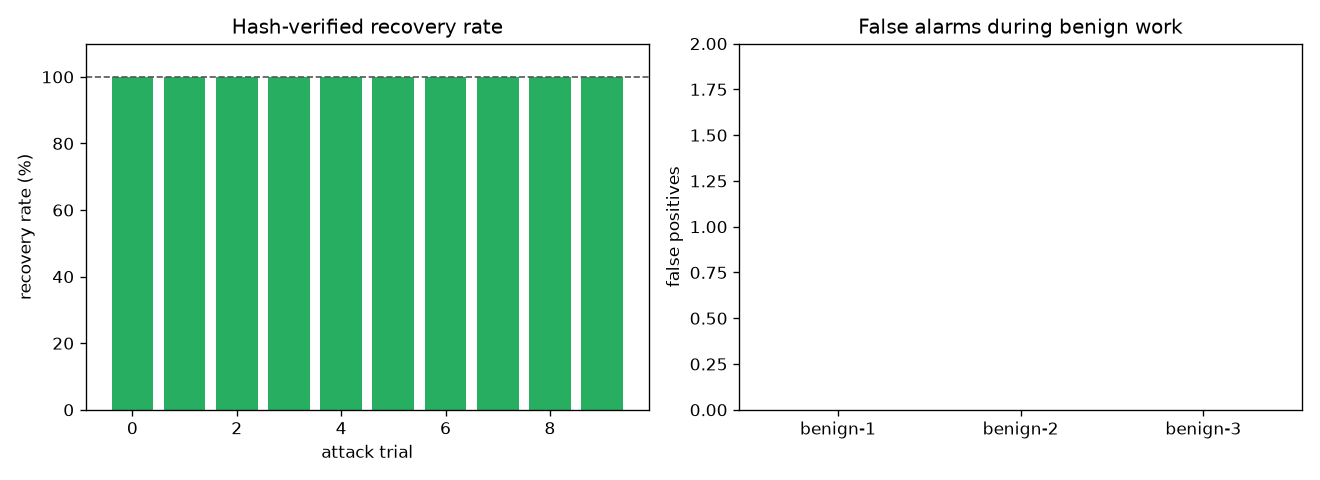
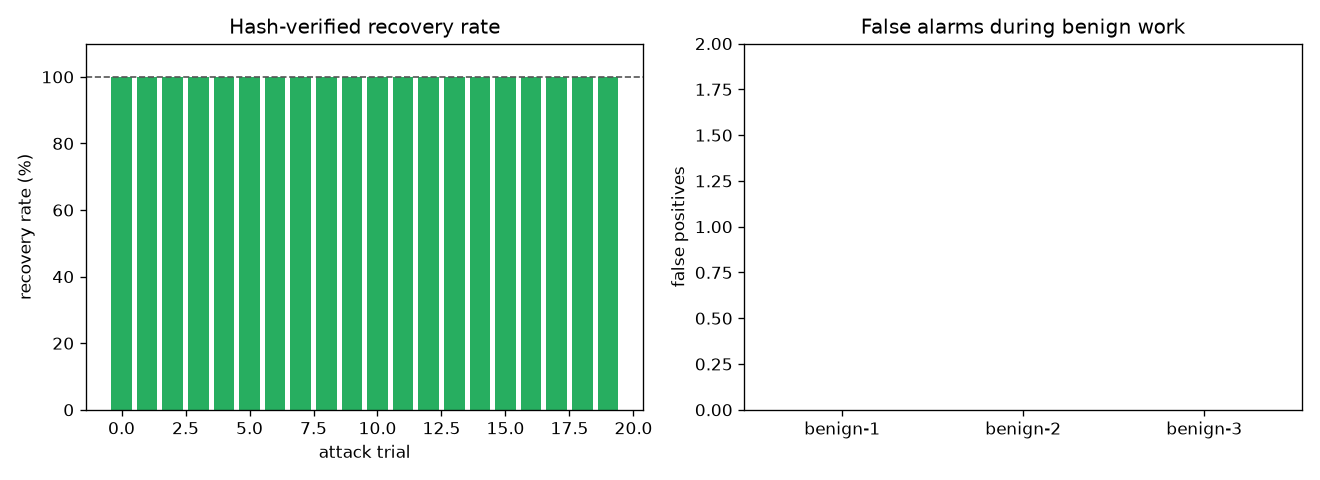
Steps 5-6: 20 live trials per corpus, both matrices, README synced
- run_experiment: the full grid is now 10 speeds x 2 orders = 20 attack trials per corpus
  (plus 3 benign), run one corpus at a time so nothing competes for the sandbox.
- synthetic: 16/20 killed, 20/20 folder-clean, 2.04 s mean detection, 8.7/16 encrypted,
  0 false positives. NapierOne: 20/20 attributed AND killed, 20/20 clean, 2.36 s,
  10.9/204 encrypted (5%), 0 false positives.
- attack matrix re-run on both: 12/12 folder-clean and 12/12 correct-kill on each; the
  earlier NapierOne 'slow' no_kill is gone now the window scales with the corpus.
- README synced throughout: trial numbers, 17-type/1553-file sample, 10871-sample dataset,
  the classifier table with Wilson CIs, per-benign-group FPR, three-seed agreement,
  header-kept 1.000 for 14/17 types, fetch command, architecture box, 119 tests.

diff --git a/README.md b/README.md
@@ -57,8 +57,9 @@ cryptographically protected backup.
 | 7 | Streamlit dashboard | done |
 | 8 | threat model, NapierOne real dataset, file-level classifier evaluation | done |
 | 9 | header-kept attack + structural-validity gate, dual-corpus evaluation | done |
+| 10 | full 17-type NapierOne sample, RAR/7Z checks, 10871-sample evaluation | done |
 
-All 114 unit tests pass. Developed and demoed on Windows 11 (Python 3.15); the code is pure
+All 119 unit tests pass. Developed and demoed on Windows 11 (Python 3.15); the code is pure
 Python and also runs on Ubuntu. The one platform-specific area is process attribution -
 see **Known limitations** for the measured Windows behaviour and how it is handled.
 
@@ -175,7 +176,7 @@ the PNG charts. The raw JSON is git-ignored; regenerate it with the commands abo
 ### Dataset (real NapierOne files)
 
 ```bash
-python tools/fetch_napierone.py --count 40 --max-archive-mb 170   # -> datasets/napierone_sample/
+python tools/fetch_napierone.py --count 100 --max-archive-mb 650  # -> datasets/napierone_sample/
 python evaluation/build_dataset.py                                # -> datasets/labeled/ + labels.csv
 python evaluation/dataset_eval.py                                 # -> dataset_results.md + charts
 ```
@@ -183,26 +184,26 @@ python evaluation/dataset_eval.py                                 # -> dataset_r
 ### Tests
 
 ```bash
-python -m pytest tests -q        # 114 tests
+python -m pytest tests -q        # 119 tests
 ```
 
 ## Results: synthetic vs real NapierOne corpus
 
-Both corpora, 10 attack + 3 benign trials each, plus a 12-cell attack matrix each
+Both corpora, 20 attack + 3 benign trials each, plus a 12-cell attack matrix each
 (`evaluation/results/results.md`):
 
 | corpus | files | attacker killed | folder clean | detection | files encrypted | false positives | matrix clean | new catches vs old |
 |--------|-------|-----------------|--------------|-----------|-----------------|-----------------|--------------|--------------------|
-| synthetic | 16 | 8/10 | **10/10** | 1.59 s | 9.5 (59 %) | **0** | 12/12 | 2 |
-| **NapierOne (real)** | 204 | **10/10** | **10/10** | 2.28 s | 13.9 (**7 %**) | **0** | 12/12 | 0 |
+| synthetic | 16 | 16/20 | **20/20** | 2.04 s | 8.7 (54 %) | **0** | 12/12 | 2 |
+| **NapierOne (real)** | 204 | **20/20** | **20/20** | 2.36 s | 10.9 (**5 %**) | **0** | 12/12 | 0 |
 
 Reading it:
 
 - **On real files the detector does better, not worse.** With a realistic 204-file corpus
-  every attacker was attributed and killed (10/10) and only ~7 % of files were touched,
-  versus 59 % on the tiny 16-file synthetic set - a small corpus is simply consumed before
+  every attacker was attributed and killed (20/20) and only ~5 % of files were touched,
+  versus 54 % on the tiny 16-file synthetic set - a small corpus is simply consumed before
   attribution can finish, which is an artefact of the test size, not of the detector.
-- **Folder fully clean 10/10 on both**, verified by re-hashing every file against a snapshot
+- **Folder fully clean 20/20 on both**, verified by re-hashing every file against a snapshot
   taken *before* the attack (not by trusting what recovery reported). The monitor re-arms
   after each response and does a final sweep, so even a mis-attributed first wave ends clean.
 - **Zero false positives on both** during benign work (editing documents, copying photos,
@@ -242,11 +243,12 @@ detector**. That is why the score combines several signals.
               +--------------------+--------------------+
               |                    |                    |
          entropy.py            canary.py           baseline.py
-   entropy + chi-square,   canary files touched?  startup entropy +
-   magic bytes, multi-offset                      SHA-256 of every file
-   windows, base64/encoded
-   detection, STRUCTURAL
-   validity (zip/png/gz/pdf/jpg)
+   entropy + chi-square,   canary files touched?  startup entropy,
+   magic bytes, multi-offset                      SHA-256 and STRUCTURAL
+   windows, base64/encoded                        validity of every file
+   detection, STRUCTURAL                          (so we can tell a file that
+   validity (zip/png/gz/pdf/                       BECAME broken from one that
+   jpg/mp4/mkv/mp3/rar/7z)                         was already broken)
               |                    |                    |
               +--------------------+--------------------+
                                    v
@@ -322,9 +324,9 @@ reproduces the "old" detector for the before/after comparison):
   optimising it to compute each window's entropy once). Because analysis runs synchronously
   on every watchdog event, this extra per-event latency lets a fast attacker encrypt a
   few more files before the score crosses the threshold - it is one of the reasons the
-  slowest attacks are killed while the fastest finish first (currently 6/10 killed, mean
-  12.2/16 files encrypted; see `evaluation/results/results.md`).
-  No files are lost (recovery still restores 10/10 to a clean folder); it is a
+  slowest attacks are killed while the fastest finish first (currently 16/20 killed, mean
+  8.7/16 files encrypted; see `evaluation/results/results.md`).
+  No files are lost (recovery still restores 20/20 to a clean folder); it is a
   detection-latency cost of looking harder, and the sampling (windows, not whole files)
   keeps it bounded.
 - **Encoded-content detection.** A charset + entropy heuristic (`entropy.is_encoded`) flags
@@ -375,12 +377,13 @@ mode is caught by both detectors - a whole-attack view saturates, because one lo
 text file anywhere in the folder is enough to raise the alarm. **The place header-kept
 actually differentiates is the per-file evaluation**, where each file is judged alone: see
 the Dataset section, where header-kept recall on MP3/MP4 goes 0.000 -> 1.000, MKV
-0.000 -> 0.966, and DOCX/XLSX 0.417/0.185 -> 1.000.
+0.000 -> 0.985, DOCX/XLSX 0.417/0.185 -> 1.000, and the archive types (ZIP/RAR/7ZIP/GZIP)
+reach 1.000 once RAR and 7Z get structural checks of their own.
 
-One honest residual: on the NapierOne corpus the `slow` cell with canaries on ends
-`no_kill` - at 1.5 s/file the attacker's write volume stays under the attribution rate, so
-no PID is pinned. Recovery still restored all 64 affected files and the folder ended
-byte-for-byte clean; the kill simply had no confident target.
+Every cell on both corpora now also ends with the **correct process killed** (12/12).
+An earlier run showed the NapierOne `slow` cells as `no_kill`, but that was the harness:
+its window was a flat 40 s, shorter than a 1.5 s/file attack on a 60-file corpus, so the
+attack was still running when the trial was cut off. The window now scales with the corpus.
 
 > **Honest caveat.** This before/after gap is measured on a **text-only** corpus on
 > purpose. Every encrypted file begins with the simulator's container header (`RGSIM1`),
@@ -438,48 +441,67 @@ NapierOne authors; please cite them if you use it.
 
 **What we sample.** NapierOne stores one large ZIP *bundle* per file type rather than loose
 files, so the tool downloads the smallest bundle under a size cap and extracts a seeded
-random sample from it (skipping anything over 5 MB). With a 170 MB cap that gives **480
-files across 12 types** - JPG, PNG, MP3, MP4, MKV, PDF, DOCX, XLSX, TXT, CSV, JSON, HTML.
-The remaining types (ZIP, RAR, 7ZIP, GZIP, PPTX) have 303-625 MB bundles and are skipped by
-default; raise `--max-archive-mb` to include them.
+random sample from it (skipping anything over 5 MB). With a 650 MB cap that covers **all 17
+types**: **1553 files** - JPG, PNG, MP3, MP4, MKV, PDF, DOCX, XLSX, PPTX, TXT, CSV, JSON,
+HTML and, importantly, the already-compressed ZIP, RAR, 7ZIP and GZIP (their bundles are
+303-625 MB, which is why a smaller cap skips them). Each bundle is deleted straight after
+extraction, so the peak disk cost is one bundle plus the 1.2 GB sample.
 
 ```bash
 pip install -r requirements.txt                      # boto3 for the unsigned S3 access
-python tools/fetch_napierone.py --count 40 --max-archive-mb 170   # -> datasets/napierone_sample/
+python tools/fetch_napierone.py --count 100 --max-archive-mb 650  # -> datasets/napierone_sample/
 python evaluation/build_dataset.py                   # -> datasets/labeled/ + labels.csv
 python evaluation/dataset_eval.py                    # -> dataset_results.md + charts
 ```
 
 `build_dataset.py` turns each source file into 7 labelled variants - benign (original, ZIP,
 GZIP) and ransomware (full, intermittent, base64, header-kept) - split 30/70 tuning/test
-**by source file**, so no file's variants straddle the split. That is 3360 labelled samples
-from 480 originals.
+**by source file**, so no file's variants straddle the split. That is **10871 labelled
+samples from 1553 originals** (6212 ransomware / 4659 benign), about 8.4 GB on disk.
+
+Because the archive types are now included, the benign side contains **283 real
+ZIP/RAR/7Z/GZIP archives** as hard negatives, not only the 3106 zip/gzip archives we build
+ourselves. Those two groups are scored separately, since a real archive is the harder
+negative.
 
 ### File-level results (`evaluation/results/dataset_results.md`)
 
 Each sample is scored **on its own**, with the threshold tuned on the tuning split only and
 the test split never touched during tuning:
 
-| detector | precision | recall | F1 | FPR | AUC |
-|----------|-----------|--------|----|-----|-----|
-| **new** (structural gate + multi-offset + encoded + structure_broken) | **0.998** | **0.980** | **0.989** | 0.003 | **0.989** |
-| old (first-window entropy + magic only) | 0.997 | 0.893 | 0.942 | 0.003 | - |
-| entropy alone | 0.600 | 0.998 | 0.749 | 0.888 | 0.564 |
+| detector | precision | recall (95% CI) | F1 | FPR (95% CI) | AUC |
+|----------|-----------|-----------------|----|--------------|-----|
+| **new** (structural gate + multi-offset + encoded + structure_broken) | **1.000** | **0.976** [0.971, 0.980] | **0.988** | **0.0000** [0.0000, 0.0012] | **0.988** |
+| old (first-window entropy + magic only) | 1.000 | 0.911 [0.902, 0.919] | 0.953 | 0.0000 | - |
+| entropy alone | 0.594 | 1.000 | 0.745 | **0.912** | 0.543 |
 
-The entropy-alone row is the point of the whole project: it catches nearly everything and
-is useless anyway, flagging 89 % of benign files. Results are on the **fresh** split (seed
-2025). Because the media structural checks were designed after looking at that split, a
-**second independent split (seed 3031)** is also reported and agrees - precision 0.997,
-recall 0.972, F1 0.984, AUC 0.985 - so the gain is not tuned to one split.
+False positives split by where the benign file came from - **zero in every group**:
 
-Header-kept recall is **1.000 for 10 of the 12 file types**. The three the media checks
-were written for went from undetectable to near-perfect (MP3 and MP4 0.000 -> 1.000, MKV
-0.000 -> 0.966), and scoring the structural finding directly lifted the compressed
-container types (DOCX 0.417 -> 1.000, XLSX 0.185 -> 1.000). The two that fall short are
-explainable: the remaining MKV misses are large files where the kept 10 % already satisfies
-the child-element walk, and TXT stays at 0.778 because plain text has no structure to
-check, so header-kept text is caught only when the encrypted remainder moves its entropy
-far enough.
+| benign group | n | false positives | FPR | 95% CI |
+|---|---|---|---|---|
+| real archive (NapierOne ZIP/RAR/7Z/GZIP) | 199 | **0** | 0.0000 | [0.0000, 0.0189] |
+| our generated zip/gzip | 2134 | **0** | 0.0000 | [0.0000, 0.0018] |
+| other real originals | 868 | **0** | 0.0000 | [0.0000, 0.0044] |
+
+All three seeds agree, so the result is not an artefact of one split:
+
+| seed | role | precision | recall | FPR | F1 | AUC |
+|---|---|---|---|---|---|---|
+| 2025 | fresh headline | 1.000 | 0.976 | 0.0000 | 0.988 | 0.988 |
+| 3031 | validation | 1.000 | 0.978 | 0.0000 | 0.989 | 0.989 |
+| 1234 | original | 1.000 | 0.974 | 0.0000 | 0.987 | 0.987 |
+
+The entropy-alone row is the point of the whole project: it catches everything and is
+useless anyway, flagging **91 %** of benign files. The media checks, and later the RAR/7Z
+ones, were each designed after inspecting a split - which is exactly why seeds 3031 and
+1234 are reported alongside the headline seed 2025.
+
+Header-kept recall is **1.000 for 14 of the 17 file types**, including every archive type
+(ZIP, RAR, 7ZIP, GZIP, PPTX) now that RAR and 7Z have structural checks. The three left
+are explainable rather than mysterious: **MKV 0.985** (a few large files where the kept
+10 % already satisfies the child-element walk), **TXT 0.912** and **CSV 0.688** - plain
+text and CSV have no structure to verify, so header-kept text is caught only when the
+encrypted remainder moves its entropy far enough, and a short CSV often does not.
 
 **Future work: MLRan.** A natural next step is a comparison against a machine-learning
 baseline trained on behavioural traces - e.g. the **MLRan** dataset of ransomware API-call
@@ -533,7 +555,9 @@ work.
   shorten the gap, the process sampler now wakes immediately on each sandbox write (a
   "kick") and samples faster (0.1 s) while the sandbox is hot. Measured effect over the 10
   trials: detection latency and mid-speed files-encrypted dropped slightly, but the **kill
-  rate did not reliably improve (≈7–8/10, run-to-run noise)**. The honest reason, confirmed
+  rate did not reliably improve on the tiny synthetic corpus (16/20, run-to-run noise)**.
+  On the realistic 204-file corpus the kill rate is **20/20**, because a larger folder
+  gives attribution the time it needs. The honest reason, confirmed
   by a micro-benchmark: per-process `io_counters` on Windows updates too coarsely (~1 s) to
   attribute a sub-second attack, and a 0.05 s/file attack (~0.8 s total) simply *exits*
   before any user-space suspend can land. Faster sampling cannot beat that, because the
@@ -559,7 +583,7 @@ tools/          test-corpus generator, benign workload generator,
 evaluation/     live trial runner, attack matrix, labelled-dataset builder,
                 file-level classifier evaluation, report tables and charts
 dashboard/      Streamlit live view
-tests/          pytest unit tests (114)
+tests/          pytest unit tests (119)
 datasets/       generated locally: napierone_sample/, labeled/ (git-ignored, not
                 redistributed - rebuild with the Dataset commands above)
 sandbox/        generated at runtime: protected/, .backup/, events.jsonl (git-ignored)

diff --git a/evaluation/results/results.md b/evaluation/results/results.md
@@ -2,8 +2,8 @@
 
 | corpus | files | attacker killed | folder clean | detection | files encrypted | false positives | matrix clean | new catches vs old |
 |---|---|---|---|---|---|---|---|---|
-| synthetic | 16 | 8/10 | 10/10 | 1.59 s | 9.5 (59%) | 0 | 12/12 | 2 |
-| NapierOne (real) | 204 | 10/10 | 10/10 | 2.28 s | 13.9 (7%) | 0 | 12/12 | 0 |
+| synthetic | 16 | 16/20 | 20/20 | 2.04 s | 8.7 (54%) | 0 | 12/12 | 2 |
+| NapierOne (real) | 204 | 20/20 | 20/20 | 2.36 s | 10.9 (5%) | 0 | 12/12 | 0 |
 
 *'new catches vs old' counts attack-matrix cells the upgraded detector catches that the original would have missed. It is 0 on NapierOne because real files carry magic bytes the old detector already used; the gap only shows on the text-only corpus, which is the hard case.*
 
@@ -15,24 +15,34 @@
 | # | order | delay | files | detection (s) | attributed | killed | encrypted | final recovered | folder clean |
 |---|-------|-------|-------|---------------|------------|--------|-----------|-----------------|--------------|
 | 1 | alphabetical | 0.05s | 16 | - | no | no | 16 | 16/16 | yes |
-| 2 | alphabetical | 0.1s | 16 | 1.779 | yes | yes | 16 | 16/16 | yes |
-| 3 | alphabetical | 0.2s | 16 | 1.25 | yes | yes | 5 | 16/16 | yes |
-| 4 | alphabetical | 0.3s | 16 | 1.159 | yes | yes | 4 | 16/16 | yes |
-| 5 | alphabetical | 0.4s | 16 | 1.493 | yes | yes | 4 | 16/16 | yes |
-| 6 | random | 0.05s | 16 | 1.861 | yes | yes | 16 | 16/16 | yes |
-| 7 | random | 0.1s | 16 | - | yes | no | 16 | 16/16 | yes |
-| 8 | random | 0.2s | 16 | 1.902 | yes | yes | 9 | 16/16 | yes |
-| 9 | random | 0.3s | 16 | 1.7 | yes | yes | 5 | 16/16 | yes |
-| 10 | random | 0.4s | 16 | 1.603 | yes | yes | 4 | 16/16 | yes |
+| 2 | alphabetical | 0.1s | 16 | - | yes | no | 16 | 16/16 | yes |
+| 3 | alphabetical | 0.15s | 16 | 2.095 | yes | yes | 13 | 16/16 | yes |
+| 4 | alphabetical | 0.2s | 16 | 1.795 | yes | yes | 7 | 16/16 | yes |
+| 5 | alphabetical | 0.25s | 16 | 1.34 | yes | yes | 5 | 16/16 | yes |
+| 6 | alphabetical | 0.3s | 16 | 1.878 | yes | yes | 5 | 16/16 | yes |
+| 7 | alphabetical | 0.35s | 16 | 1.989 | yes | yes | 5 | 16/16 | yes |
+| 8 | alphabetical | 0.4s | 16 | 1.632 | yes | yes | 4 | 16/16 | yes |
+| 9 | alphabetical | 0.45s | 16 | 1.462 | yes | yes | 3 | 16/16 | yes |
+| 10 | alphabetical | 0.5s | 16 | 1.44 | yes | yes | 3 | 16/16 | yes |
+| 11 | random | 0.05s | 16 | - | no | no | 16 | 16/16 | yes |
+| 12 | random | 0.1s | 16 | - | no | no | 16 | 16/16 | yes |
+| 13 | random | 0.15s | 16 | 2.114 | yes | yes | 13 | 16/16 | yes |
+| 14 | random | 0.2s | 16 | 2.051 | yes | yes | 10 | 16/16 | yes |
+| 15 | random | 0.25s | 16 | 2.041 | yes | yes | 8 | 16/16 | yes |
+| 16 | random | 0.3s | 16 | 2.108 | yes | yes | 7 | 16/16 | yes |
+| 17 | random | 0.35s | 16 | 2.412 | yes | yes | 7 | 16/16 | yes |
+| 18 | random | 0.4s | 16 | 2.052 | yes | yes | 5 | 16/16 | yes |
+| 19 | random | 0.45s | 16 | 3.946 | yes | yes | 9 | 16/16 | yes |
+| 20 | random | 0.5s | 16 | 2.238 | yes | yes | 5 | 16/16 | yes |
 
 **Attack summary**
 
-- trials: 10
-- attributed: 9/10; killed: 8/10 (fast attacks can finish before a kill; recovery still restores them)
-- detection time: mean 1.59s, min 1.16s, max 1.90s
-- files encrypted before stop: mean 9.5, min 4, max 16
+- trials: 20
+- attributed: 17/20; killed: 16/20 (fast attacks can finish before a kill; recovery still restores them)
+- detection time: mean 2.04s, min 1.34s, max 3.95s
+- files encrypted before stop: mean 8.7, min 3, max 16
 - recovery rate (recovery self-report): mean 100.0%
-- **folder fully clean at end (ground truth): 10/10 trials**
+- **folder fully clean at end (ground truth): 20/20 trials**
 - leftover .locked artifacts across all trials: 0
 - files that failed to restore: 0
 
@@ -50,18 +60,18 @@
 
 | mode | canaries | detected (new)? | would OLD detector catch? | detection (s) | encrypted | recovered | folder clean | clean pre-sweep | correct kill |
 |------|----------|-----------------|---------------------------|---------------|-----------|-----------|--------------|-----------------|--------------|
-| full | on | yes | yes | 1.724 | 3 | 3 | yes | yes | yes |
-| slow | on | yes | yes | 2.553 | 2 | 2 | yes | yes | yes |
-| no-rename | on | yes | yes | 1.339 | 3 | 3 | yes | yes | yes |
-| base64 | on | yes | yes | 1.533 | 3 | 3 | yes | yes | yes |
-| intermittent | on | yes | yes | 1.604 | 3 | 3 | yes | yes | yes |
-| header-kept | on | yes | yes | 1.691 | 3 | 3 | yes | yes | yes |
-| full | off | yes | yes | 2.769 | 6 | 6 | yes | yes | yes |
-| slow | off | yes | yes | 2.445 | 2 | 2 | yes | yes | yes |
-| no-rename | off | yes | yes | 1.626 | 3 | 3 | yes | yes | yes |
-| base64 | off | yes | **NO (new catch)** | 2.229 | 4 | 4 | yes | yes | yes |
-| intermittent | off | yes | **NO (new catch)** | 2.16 | 4 | 4 | yes | yes | yes |
-| header-kept | off | yes | yes | 1.481 | 3 | 3 | yes | yes | yes |
+| full | on | yes | yes | 0.994 | 2 | 2 | yes | yes | yes |
+| slow | on | yes | yes | 2.268 | 2 | 2 | yes | yes | yes |
+| no-rename | on | yes | yes | 1.404 | 3 | 3 | yes | yes | yes |
+| base64 | on | yes | yes | 1.775 | 4 | 4 | yes | yes | yes |
+| intermittent | on | yes | yes | 1.664 | 3 | 3 | yes | yes | yes |
+| header-kept | on | yes | yes | 1.981 | 4 | 4 | yes | yes | yes |
+| full | off | yes | yes | 2.063 | 4 | 4 | yes | yes | yes |
+| slow | off | yes | yes | 2.253 | 2 | 2 | yes | yes | yes |
+| no-rename | off | yes | yes | 1.524 | 3 | 3 | yes | yes | yes |
+| base64 | off | yes | **NO (new catch)** | 1.714 | 4 | 4 | yes | yes | yes |
+| intermittent | off | yes | **NO (new catch)** | 1.538 | 3 | 3 | yes | yes | yes |
+| header-kept | off | yes | yes | 1.919 | 4 | 4 | yes | yes | yes |
 
 **Before/after:** 2 of 12 attack cells are caught by the new detector but would have slipped past the original entropy/magic/canary detector
 - base64 (canaries off)
@@ -75,25 +85,35 @@
 
 | # | order | delay | files | detection (s) | attributed | killed | encrypted | final recovered | folder clean |
 |---|-------|-------|-------|---------------|------------|--------|-----------|-----------------|--------------|
-| 1 | alphabetical | 0.05s | 204 | 1.823 | yes | yes | 24 | 204/204 | yes |
-| 2 | alphabetical | 0.1s | 204 | 1.73 | yes | yes | 14 | 204/204 | yes |
-| 3 | alphabetical | 0.2s | 204 | 1.696 | yes | yes | 7 | 204/204 | yes |
-| 4 | alphabetical | 0.3s | 204 | 2.384 | yes | yes | 7 | 204/204 | yes |
-| 5 | alphabetical | 0.4s | 204 | 2.904 | yes | yes | 7 | 204/204 | yes |
-| 6 | random | 0.05s | 204 | 2.301 | yes | yes | 36 | 204/204 | yes |
-| 7 | random | 0.1s | 204 | 2.523 | yes | yes | 19 | 204/204 | yes |
-| 8 | random | 0.2s | 204 | 2.754 | yes | yes | 12 | 204/204 | yes |
-| 9 | random | 0.3s | 204 | 2.27 | yes | yes | 7 | 204/204 | yes |
-| 10 | random | 0.4s | 204 | 2.395 | yes | yes | 6 | 204/204 | yes |
+| 1 | alphabetical | 0.05s | 204 | 2.619 | yes | yes | 39 | 204/204 | yes |
+| 2 | alphabetical | 0.1s | 204 | 2.922 | yes | yes | 23 | 204/204 | yes |
+| 3 | alphabetical | 0.15s | 204 | 3.253 | yes | yes | 17 | 204/204 | yes |
+| 4 | alphabetical | 0.2s | 204 | 2.665 | yes | yes | 11 | 204/204 | yes |
+| 5 | alphabetical | 0.25s | 204 | 2.674 | yes | yes | 9 | 204/204 | yes |
+| 6 | alphabetical | 0.3s | 204 | 1.493 | yes | yes | 4 | 204/204 | yes |
+| 7 | alphabetical | 0.35s | 204 | 1.857 | yes | yes | 4 | 204/204 | yes |
+| 8 | alphabetical | 0.4s | 204 | 1.591 | yes | yes | 4 | 204/204 | yes |
+| 9 | alphabetical | 0.45s | 204 | 1.711 | yes | yes | 3 | 204/204 | yes |
+| 10 | alphabetical | 0.5s | 204 | 1.433 | yes | yes | 3 | 204/204 | yes |
+| 11 | random | 0.05s | 204 | 1.632 | yes | yes | 23 | 204/204 | yes |
+| 12 | random | 0.1s | 204 | 1.844 | yes | yes | 13 | 204/204 | yes |
+| 13 | random | 0.15s | 204 | 2.723 | yes | yes | 14 | 204/204 | yes |
+| 14 | random | 0.2s | 204 | 2.528 | yes | yes | 10 | 204/204 | yes |
+| 15 | random | 0.25s | 204 | 2.609 | yes | yes | 9 | 204/204 | yes |
+| 16 | random | 0.3s | 204 | 2.54 | yes | yes | 7 | 204/204 | yes |
+| 17 | random | 0.35s | 204 | 3.047 | yes | yes | 8 | 204/204 | yes |
+| 18 | random | 0.4s | 204 | 2.628 | yes | yes | 6 | 204/204 | yes |
+| 19 | random | 0.45s | 204 | 2.793 | yes | yes | 6 | 204/204 | yes |
+| 20 | random | 0.5s | 204 | 2.659 | yes | yes | 5 | 204/204 | yes |
 
 **Attack summary**
 
-- trials: 10
-- attributed: 10/10; killed: 10/10 (fast attacks can finish before a kill; recovery still restores them)
-- detection time: mean 2.28s, min 1.70s, max 2.90s
-- files encrypted before stop: mean 13.9, min 6, max 36
+- trials: 20
+- attributed: 20/20; killed: 20/20 (fast attacks can finish before a kill; recovery still restores them)
+- detection time: mean 2.36s, min 1.43s, max 3.25s
+- files encrypted before stop: mean 10.9, min 3, max 39
 - recovery rate (recovery self-report): mean 100.0%
-- **folder fully clean at end (ground truth): 10/10 trials**
+- **folder fully clean at end (ground truth): 20/20 trials**
 - leftover .locked artifacts across all trials: 0
 - files that failed to restore: 0
 
@@ -111,18 +131,18 @@
 
 | mode | canaries | detected (new)? | would OLD detector catch? | detection (s) | encrypted | recovered | folder clean | clean pre-sweep | correct kill |
 |------|----------|-----------------|---------------------------|---------------|-----------|-----------|--------------|-----------------|--------------|
-| full | on | yes | yes | 3.196 | 6 | 6 | yes | yes | yes |
-| slow | on | yes | yes | - | 64 | 64 | yes | no | no_kill |
-| no-rename | on | yes | yes | 3.116 | 6 | 6 | yes | yes | yes |
-| base64 | on | yes | yes | 3.063 | 6 | 6 | yes | yes | yes |
-| intermittent | on | yes | yes | 3.278 | 7 | 7 | yes | yes | yes |
-| header-kept | on | yes | yes | 3.424 | 7 | 7 | yes | yes | yes |
-| full | off | yes | yes | 2.692 | 5 | 5 | yes | yes | yes |
-| slow | off | yes | yes | 6.842 | 5 | 5 | yes | yes | yes |
-| no-rename | off | yes | yes | 2.971 | 6 | 6 | yes | yes | yes |
-| base64 | off | yes | yes | 2.619 | 5 | 5 | yes | yes | yes |
-| intermittent | off | yes | yes | 2.814 | 6 | 6 | yes | yes | yes |
-| header-kept | off | yes | yes | 2.96 | 6 | 6 | yes | yes | yes |
+| full | on | yes | yes | 2.883 | 6 | 6 | yes | yes | yes |
+| slow | on | yes | yes | 2.676 | 2 | 2 | yes | yes | yes |
+| no-rename | on | yes | yes | 2.141 | 4 | 4 | yes | yes | yes |
+| base64 | on | yes | yes | 2.293 | 5 | 5 | yes | yes | yes |
+| intermittent | on | yes | yes | 2.034 | 4 | 4 | yes | yes | yes |
+| header-kept | on | yes | yes | 3.313 | 6 | 6 | yes | yes | yes |
+| full | off | yes | yes | 2.38 | 5 | 5 | yes | yes | yes |
+| slow | off | yes | yes | 2.71 | 2 | 2 | yes | yes | yes |
+| no-rename | off | yes | yes | 1.886 | 4 | 4 | yes | yes | yes |
+| base64 | off | yes | yes | 2.72 | 5 | 5 | yes | yes | yes |
+| intermittent | off | yes | yes | 2.028 | 4 | 4 | yes | yes | yes |
+| header-kept | off | yes | yes | 2.123 | 4 | 4 | yes | yes | yes |
 
 **Before/after:** 0 of 12 attack cells are caught by the new detector but would have slipped past the original entropy/magic/canary detector
 
